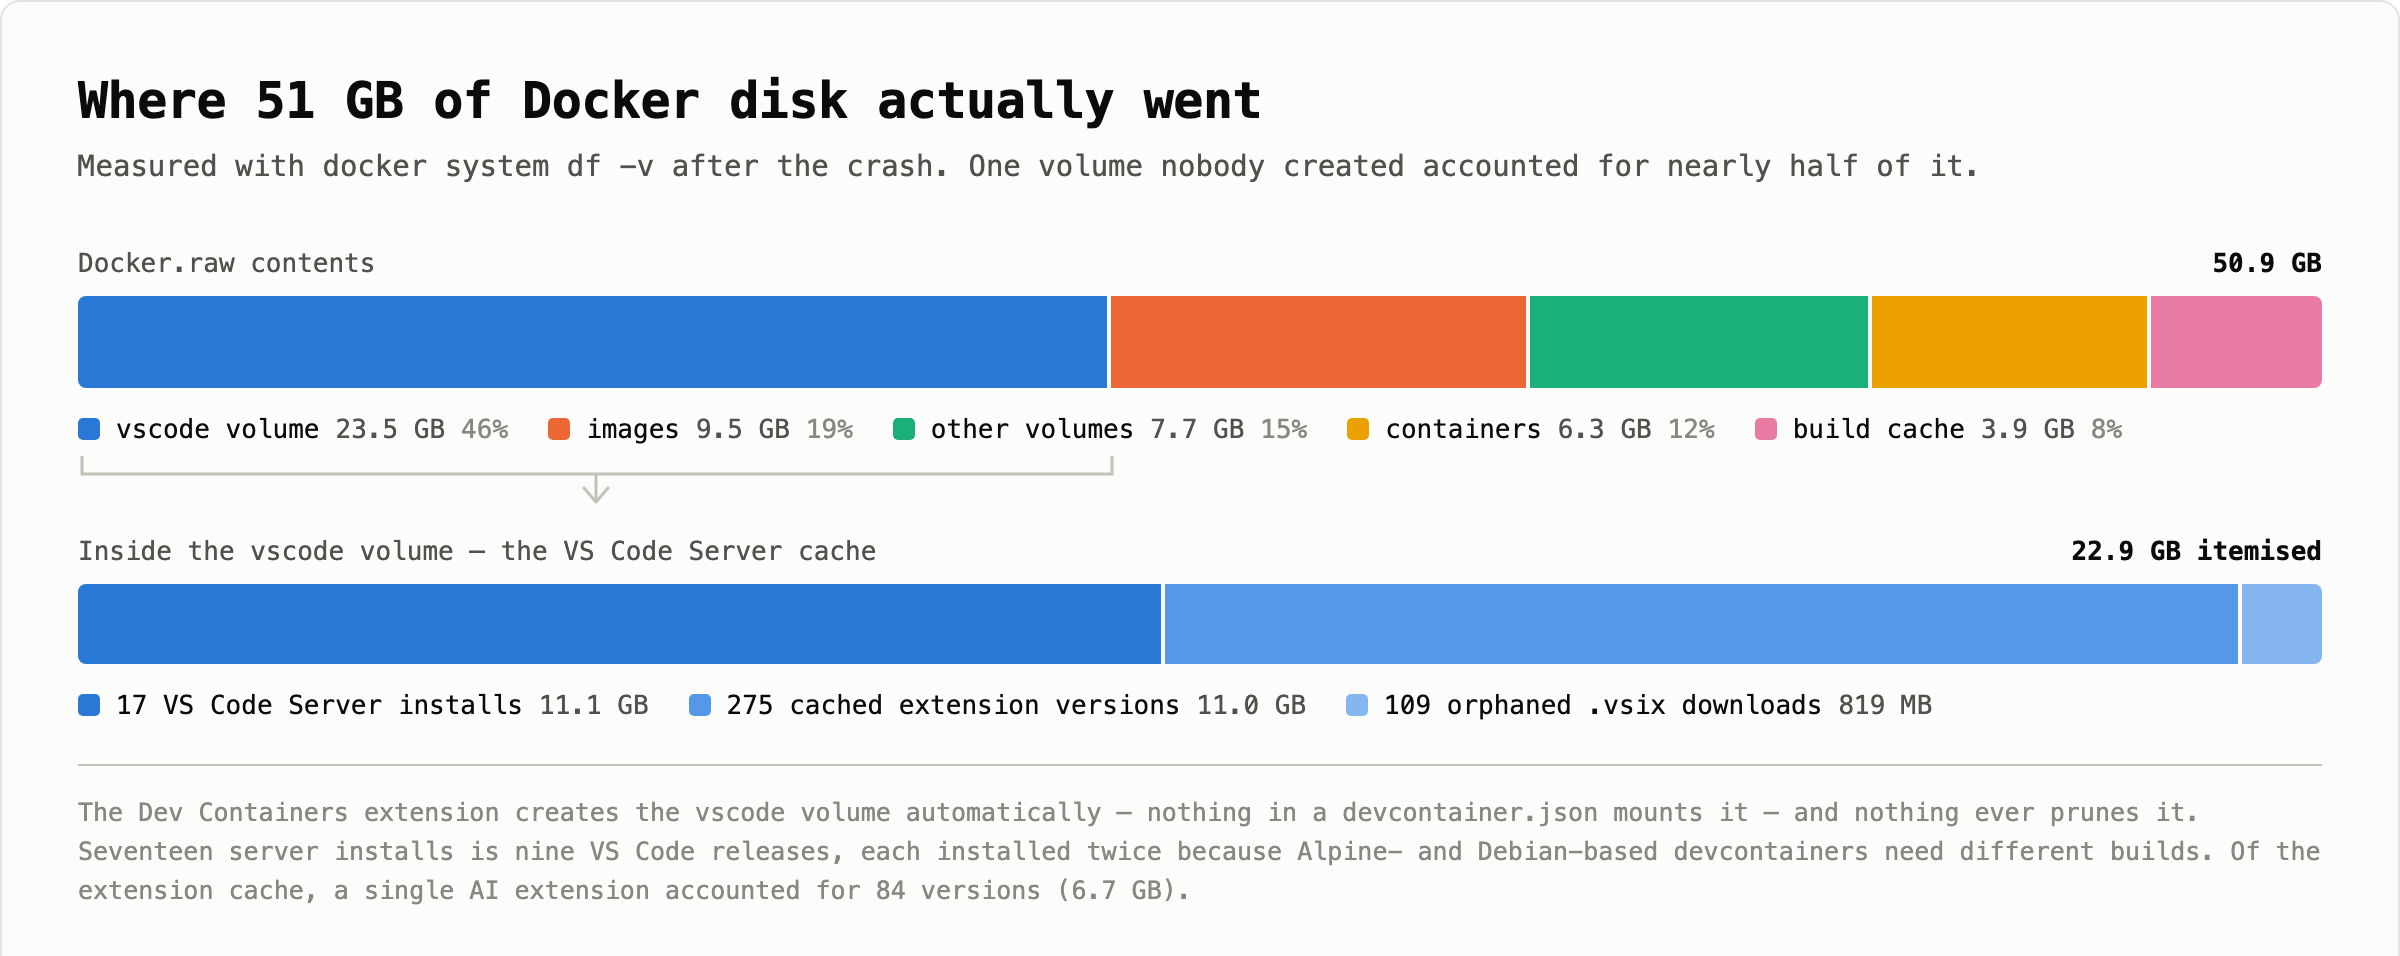
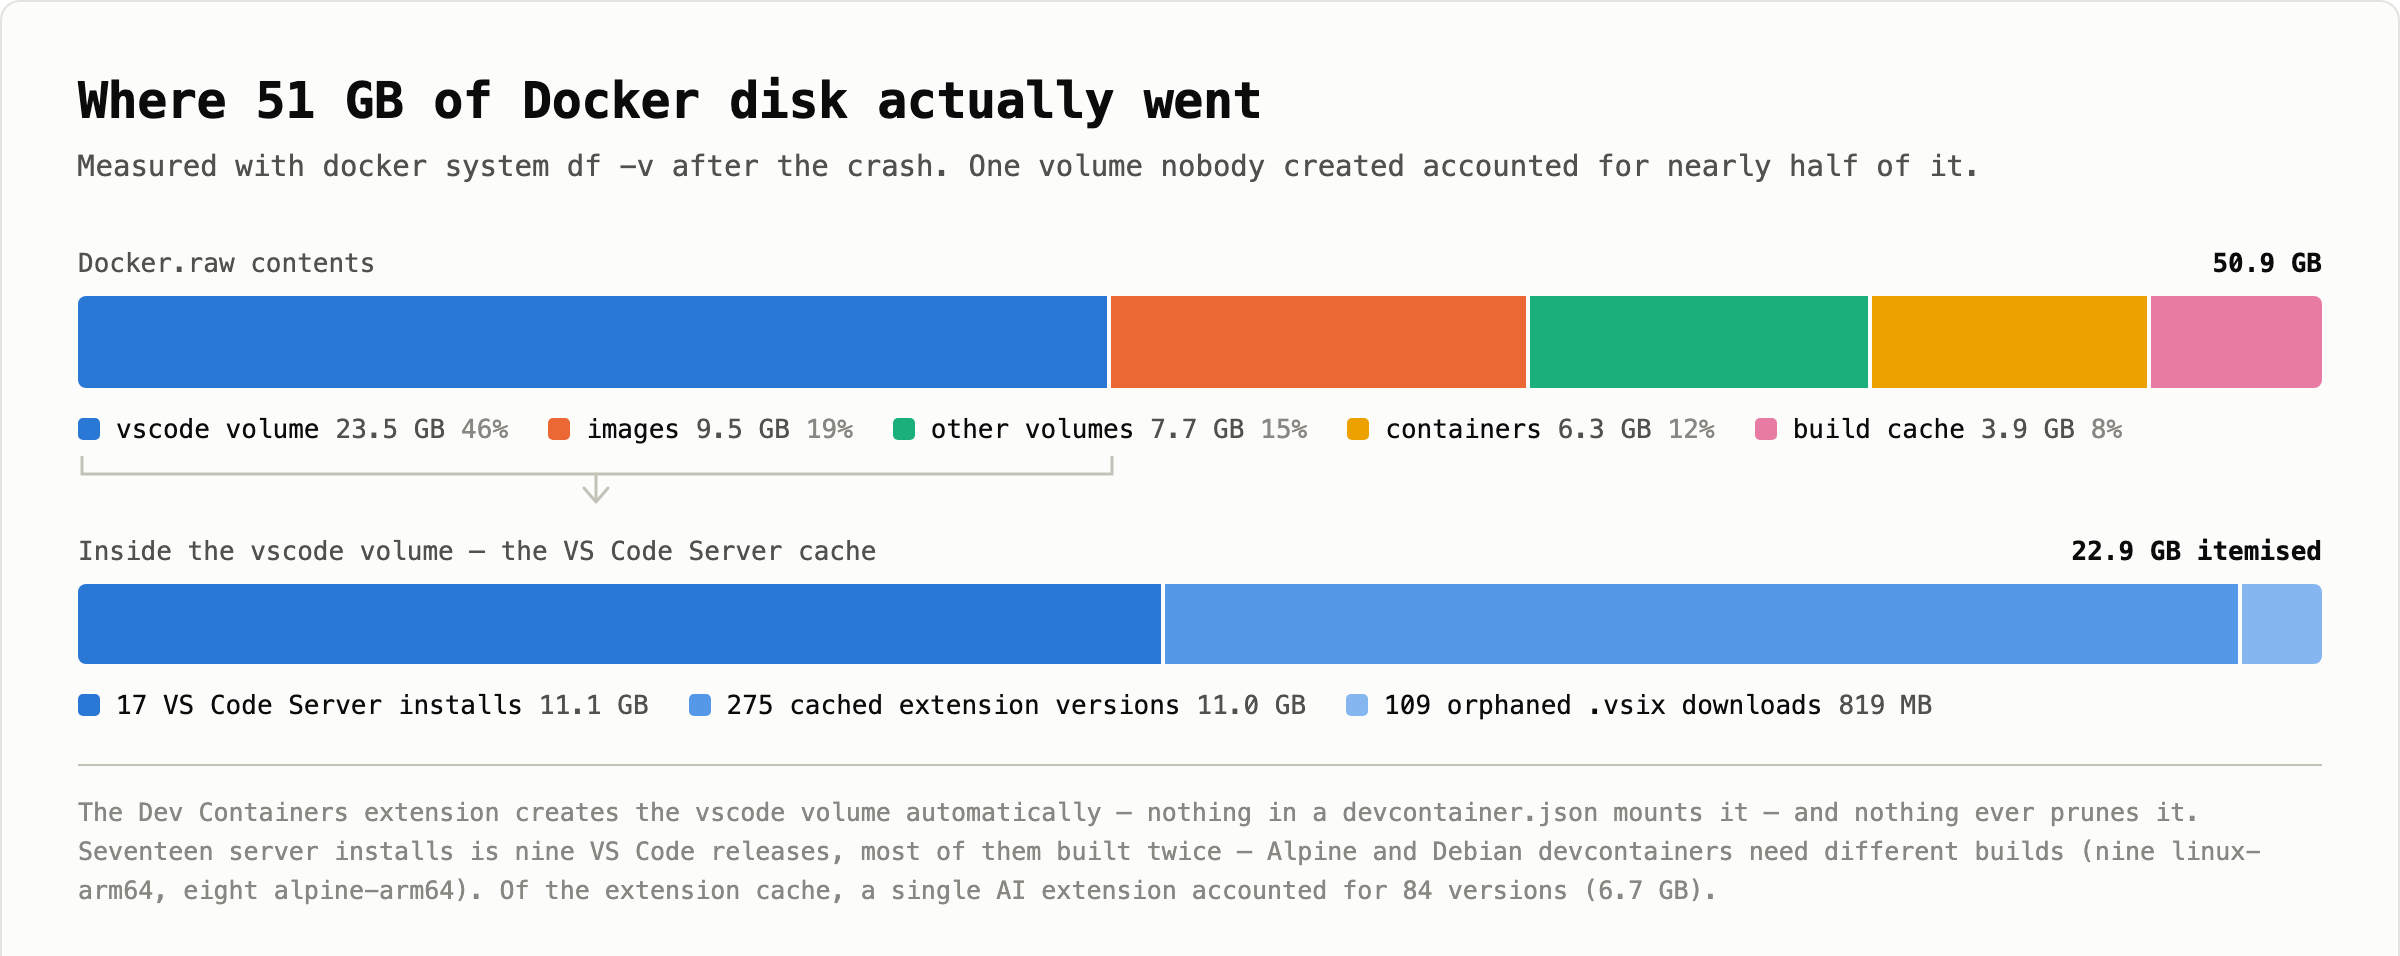
fix(www): correct the df section and two other numbers in the Docker post
Reader caught it: the post showed `df -h /` reporting 460Gi size, 17Gi used,
16Gi avail and 53% capacity, then moved on as if that were self-explanatory. It
isn't — 17 + 16 is nowhere near 460, and 17/460 is 4%, not 53%.

The output was real; the explanation was missing. `df` mixes frames of reference
on an APFS volume: Size is the shared container, Used is that one volume, Avail
is the shared pool, and Capacity is Used/(Used+Avail) — Size plays no part in it.
So 17/(17+16) lands on 53%. Rewrites the section around that with a table of what
each column refers to, plus a one-liner readers can run to confirm the formula.

Also corrects the section's overstated claim. Both volumes report the *same*
Avail, because APFS volumes share one pool — so `df -h /` never hid the free
space, it hid how full the disk was. Retitled from "macOS Lies About Free Space"
to something the section can actually support.

Two more, found while auditing every figure in the post:

- "every VS Code release gets installed twice" would give 18 installs, not 17.
  It was nine linux-arm64 and eight alpine-arm64 — most releases, not all.
  Corrected in the prose and in the figure, which is re-rendered.
- The `docker system df` rows sum to 84.3 GB against an 80 GB Docker.raw. They
  are not meant to reconcile — logical per-category sizes with shared layers
  counted more than once, versus physical allocation — so the post now says so
  rather than leaving a reader to spot the mismatch.

Changed region(s): [[0.0312, 0.8797, 0.9688, 0.9404]]

diff --git a/services/www/content/posts/2026/09/docker-desktop-ate-my-disk/index.md b/services/www/content/posts/2026/09/docker-desktop-ate-my-disk/index.md
@@ -44,7 +44,7 @@ There it was. Docker Desktop had been sitting on a "Disk full" dialog whose only
 
 ⚠ **Note:** If `docker` commands hang instead of failing, don't waste time on the CLI. Go straight to `com.docker.backend.log`.
 
-## 🚨 Problem #1: macOS Lies About Free Space
+## 🚨 Problem #1: `df` Doesn't Mean What You Think on APFS
 
 Naturally I checked how much disk I had left:
 
@@ -57,9 +57,24 @@ Filesystem      Size   Used  Avail Capacity  Mounted on
 /dev/disk3s1s1  460Gi   17Gi   16Gi    53%   /
 ```
 
-53% used! Plenty of room. Except that's completely wrong.
+Stare at that row for a second, because on its face it's gibberish. 17 GB used plus 16 GB available is 33 GB, not 460 GB. And 17 out of 460 is 4%, nowhere near 53%.
 
-On modern macOS, `/` is a **sealed, read-only system snapshot**. Your actual files live on a separate APFS volume, and that's the number you want:
+Nothing is broken. That's just how `df` reports an APFS volume, and the row mixes two different frames of reference:
+
+| Column | What it actually refers to |
+| --- | --- |
+| `Size` | the whole APFS **container**, shared by every volume on the disk |
+| `Used` | what **this one volume** holds |
+| `Avail` | free space in the **shared pool** |
+| `Capacity` | `Used / (Used + Avail)` — **not** `Used / Size` |
+
+So the percentage is `17 / (17 + 16)` ≈ 52%, which lands on 53% once you use the exact byte counts behind those rounded figures. `Size` plays no part in it. You can confirm the formula yourself:
+
+```bash
+df -k / /System/Volumes/Data | awk 'NR>1 {printf "%-24s %.1f%% (reported %s)\n", $9, 100*$3/($3+$4), $5}'
+```
+
+Then there's the second trap on top of the first: on modern macOS `/` is a **sealed, read-only system snapshot** holding just the OS. Your actual files live on a separate volume:
 
 ```bash
 df -h /System/Volumes/Data
@@ -70,7 +85,11 @@ Filesystem      Size   Used  Avail Capacity  Mounted on
 /dev/disk3s5   460Gi  404Gi   16Gi    97%   /System/Volumes/Data
 ```
 
-97%. All APFS volumes share one storage pool, so the "Avail" figure is the same — but the capacity percentage from `df -h /` is meaningless and will happily convince you nothing is wrong.
+97%, and there's the real story.
+
+Note that both lines report the **same** `Avail` — 16 GB — because all APFS volumes draw from one shared pool. So `df -h /` never actually hid the free space from me; it was right there. What it hid was *how full the disk was*. A tidy "53%" sitting next to "460Gi" reads as half a terabyte, half empty, and I moved on. The number that mattered was on the other volume.
+
+**Always check `/System/Volumes/Data`, and read the `Avail` column rather than the percentage.**
 
 ## 🚨 Problem #2: The Sparse File Trap
 
@@ -130,6 +149,8 @@ With the daemon alive again, `docker system df` finally talked:
 | Local Volumes | 31.2 GB | 0.9 GB |
 | Build Cache | 10.0 GB | 5.3 GB |
 
+_Don't bother adding those up against the 80 GB file — they won't reconcile. `docker system df` reports logical sizes per category, where a layer shared between images is counted in each, while `Docker.raw` is physical allocation that also includes free space inside the VM's filesystem waiting to be trimmed._
+
 The safe stuff came off easily — `docker image prune -a -f` and `docker builder prune -f` gave back 12.9 GB, and removing devcontainers that had been idle for over three weeks freed another 10.5 GB.
 
 But the volumes column bothered me. 31 GB, almost nothing reclaimable. So I looked closer:
@@ -155,7 +176,7 @@ Here's what was inside mine:
 
 **Seventeen** copies of the VS Code Server. One directory per VS Code release, 470 MB–1.3 GB each, going back about nine months. Nothing ever deletes the old ones.
 
-Why seventeen and not nine? Because I run both Debian-based and Alpine-based devcontainers, and every VS Code release gets installed **twice** — once as `linux-arm64`, once as `alpine-arm64`. Mixing base image families silently doubles this cache.
+Why seventeen and not nine? Because I run both Debian-based and Alpine-based devcontainers, and those need different builds — so most releases are installed **twice**, once as `linux-arm64` and once as `alpine-arm64` (nine of the former, eight of the latter). Mixing base image families comes close to doubling this cache.
 
 Then the extensions cache, which was the real surprise:
 
